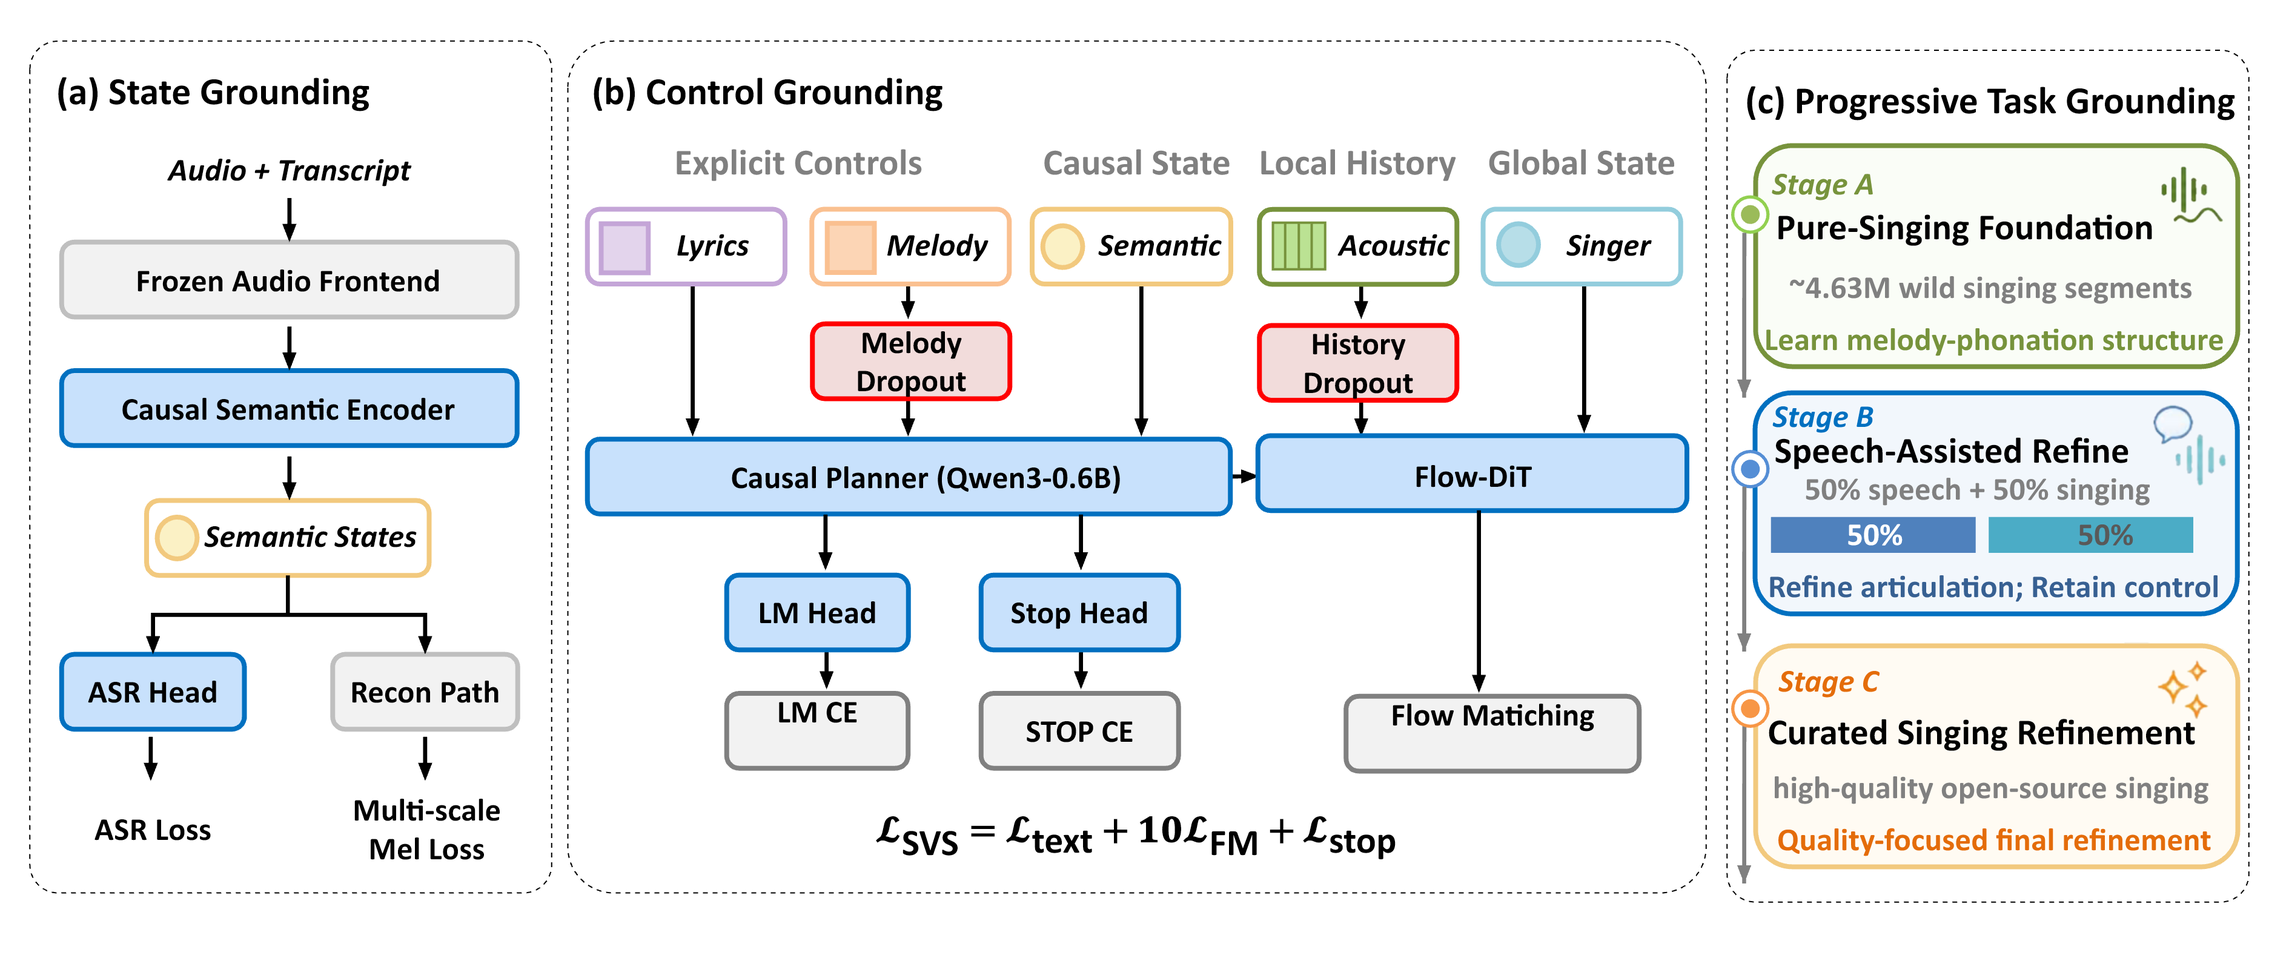
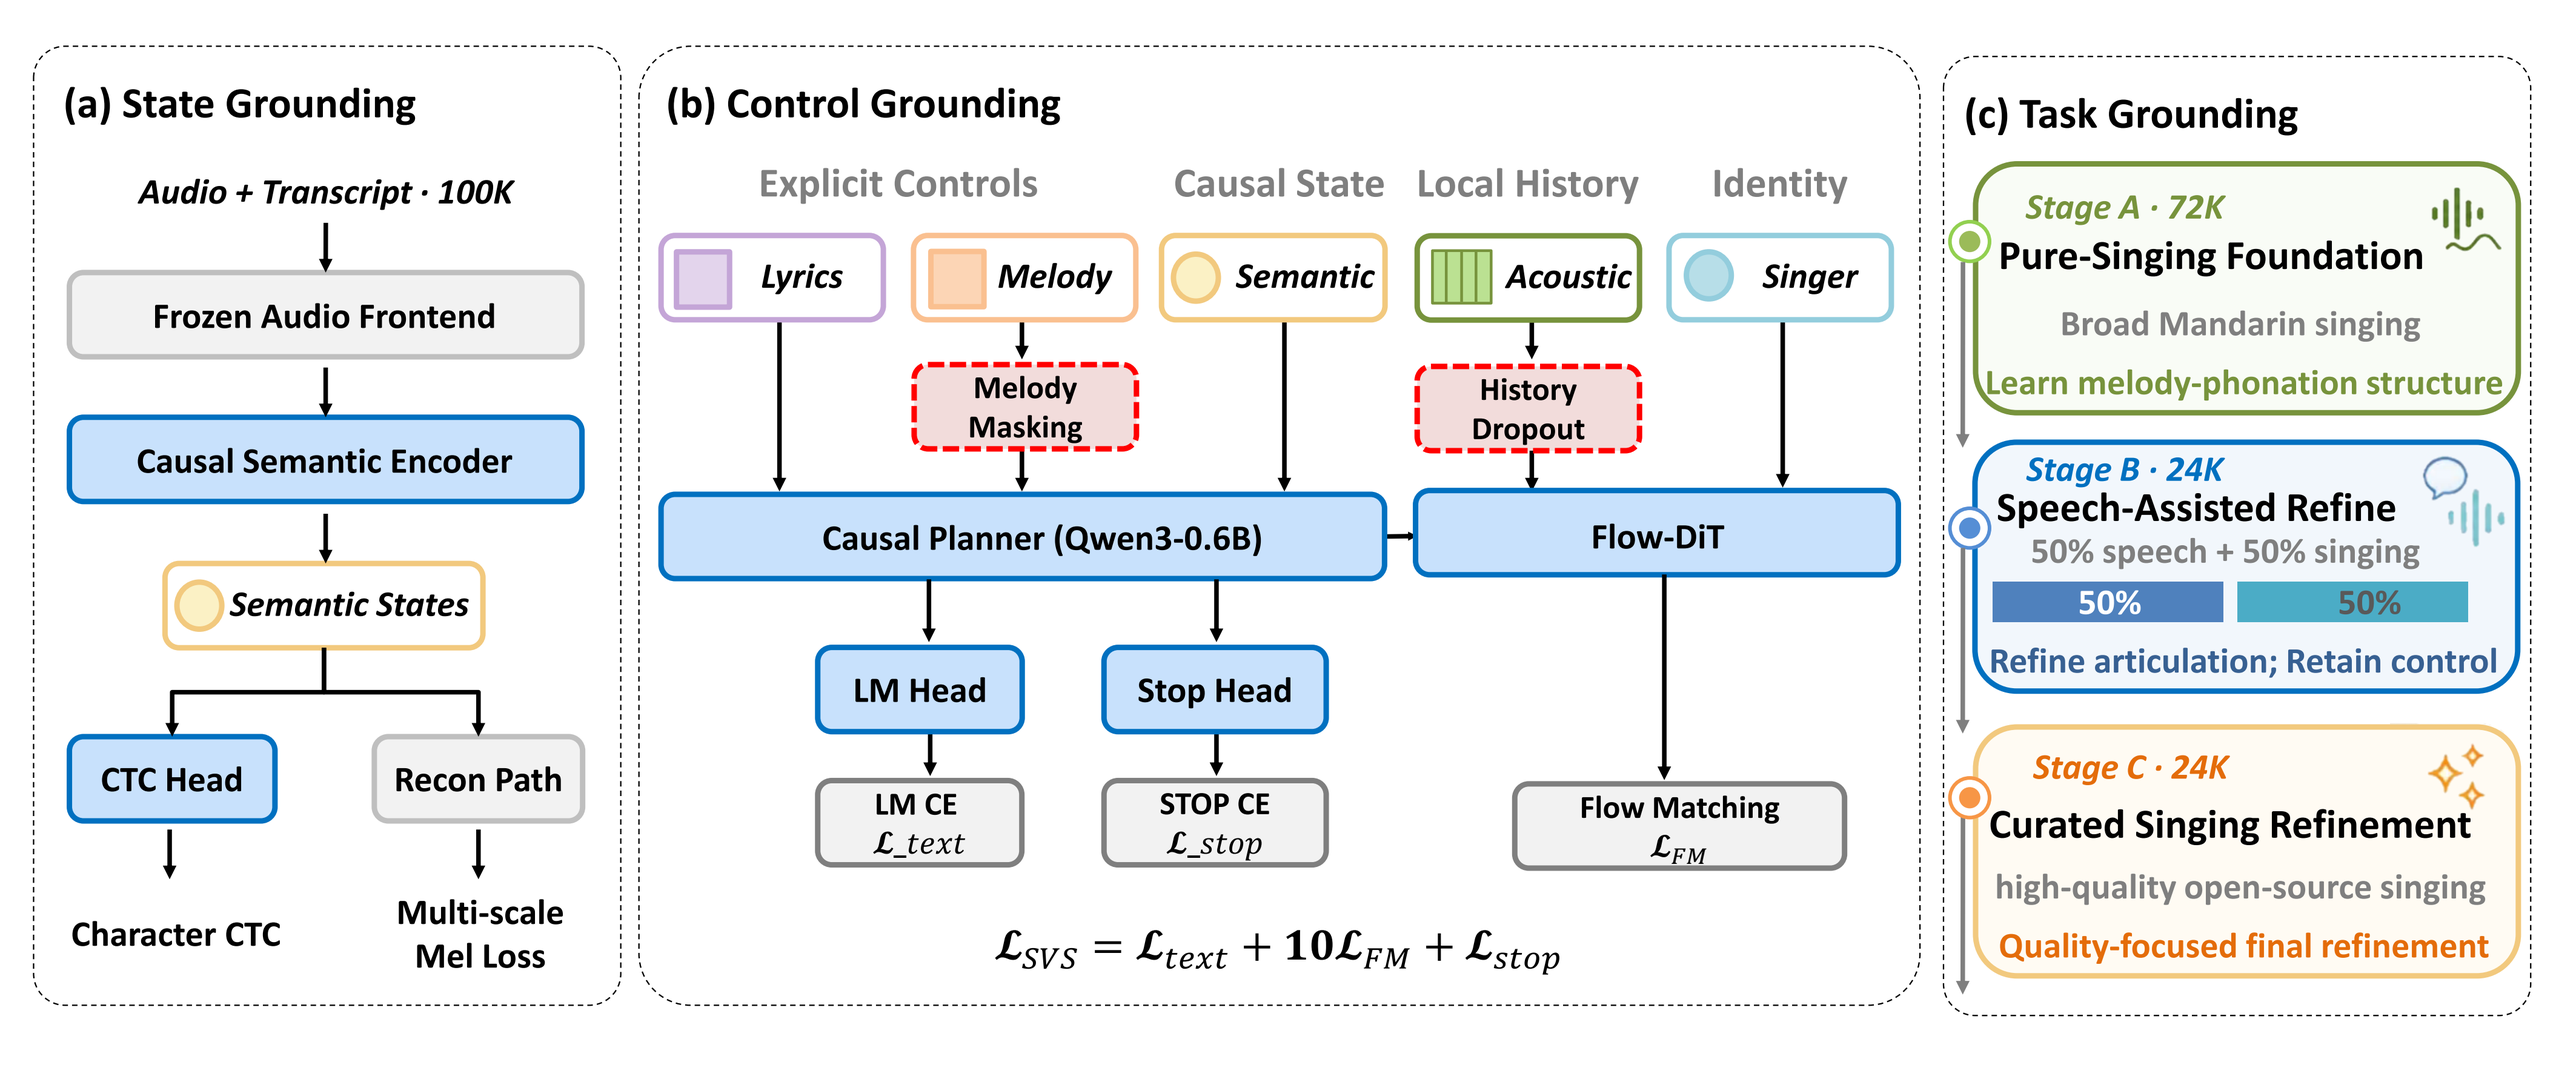
Update manuscript figures, main tables and revised listening results

diff --git a/index.html b/index.html
@@ -88,8 +88,8 @@
           <small>reference melody preservation</small>
         </div>
         <div>
-          <strong>4.13</strong><span>N-MOS ↑</span>
-          <small>naturalness, 95% CI [4.04, 4.22]</small>
+          <strong>4.11</strong><span>N-MOS ↑</span>
+          <small>naturalness · paired listening study</small>
         </div>
       </section>
 
@@ -131,6 +131,7 @@
         </div>
       </section>
 
+<section class="section"><div class="table-card"><div class="table-title"><h3>History access in related models</h3></div><div class="table-scroll"><table><thead><tr><th>Model</th><th>Global recurrent input</th><th>Local acoustic path</th><th>Role</th></tr></thead><tbody><tr><th>DiTAR</th><td>Encoded acoustic patches</td><td>Previous patches → local diffusion</td><td>Patch AR with local diffusion</td></tr><tr><th>VibeVoice</th><td>Semantic + acoustic projections</td><td>No separate predecessor input</td><td>Hybrid feedback for long-form speech</td></tr><tr><th>VoxCPM</th><td>Local-encoder acoustic embeddings</td><td>Previous patch → local diffusion</td><td>FSQ planning + residual acoustics</td></tr><tr><th>CALM</th><td>Noised acoustic history</td><td>Clean recent latents → short context</td><td>Noisy long / clean short context</td></tr><tr class="ours-row"><th>CLASVS</th><td>Frozen semantic feedback</td><td>Previous patch → Flow-DiT</td><td>Restricted global history for lyric editing</td></tr></tbody></table></div><p class="table-note">Main paper Table 1. Systems address different tasks: this compares information access, not same-task performance. CALM refers to its music configuration.</p></div></section>
       <section class="section method-section" id="method">
         <div class="section-heading split-heading">
           <div>
@@ -138,9 +139,9 @@
             <h2>State–Control–Transition routing</h2>
           </div>
           <p>
-            CLASVS generates normalized 64-D AudioVAE latents in 100-ms patches.
+            CLASVS generates 64-D AudioVAE latents in 100-ms patches.
             A Qwen3-0.6B causal planner retains the immutable controls; repeated
-            Flow-DiT blocks realize the acoustic sequence.
+            shared Flow-DiT generates five latent frames per 100-ms step.
           </p>
         </div>
 
@@ -225,8 +226,9 @@
               <span>Open figure ↗</span>
             </button>
             <figcaption>
-              Figure 2. State, control, and task grounding form a three-stage
-              curriculum for robust variable-length lyric editing.
+              Figure 2. State Grounding pretrains the causal encoder with character
+              CTC and Mel reconstruction. Control Grounding corrupts local history
+              and melody. Task Grounding uses 72K / 24K / 24K updates.
             </figcaption>
           </figure>
         </div>
@@ -245,121 +247,7 @@
           </p>
         </div>
 
-        <div class="table-card">
-          <div class="table-title">
-            <div>
-              <span>Objective evaluation</span>
-              <h3>CLA-LyricEdit-320</h3>
-            </div>
-            <small>↓ lower is better · ↑ higher is better</small>
-          </div>
-          <div class="table-scroll">
-            <table>
-              <thead>
-                <tr>
-                  <th>System</th>
-                  <th>PSub PER↓</th>
-                  <th>FSub PER↓</th>
-                  <th>Del PER↓</th>
-                  <th>Ins PER↓</th>
-                  <th>Macro-PER↓</th>
-                  <th>FPC↑</th>
-                  <th>SIM↑</th>
-                  <th>Onset ms↓</th>
-                </tr>
-              </thead>
-              <tbody>
-                <tr>
-                  <th>Vevo2</th>
-                  <td>.0617</td><td>.0563</td><td>.1033</td><td>.0581</td>
-                  <td>.0699</td><td>.7440</td><td>.892</td><td>69.58</td>
-                </tr>
-                <tr>
-                  <th>YingMusic-Singer-Plus</th>
-                  <td class="best">.0171</td><td class="best">.0245</td>
-                  <td>.0847</td><td>.0382</td><td>.0411</td><td>.9340</td>
-                  <td>.906</td><td>18.80</td>
-                </tr>
-                <tr class="ours-row">
-                  <th>CLASVS</th>
-                  <td>.0505</td><td>.0442</td><td class="best">.0260</td>
-                  <td class="best">.0298</td><td class="best">.0376</td>
-                  <td class="best">.9410</td><td class="best">.914</td>
-                  <td class="best">7.68</td>
-                </tr>
-              </tbody>
-            </table>
-          </div>
-          <p class="table-note">
-            Macro-PER 95% CI: Vevo2 [.0617, .0781],
-            YingMusic-Singer-Plus [.0356, .0469], CLASVS [.0326, .0429].
-          </p>
-        </div>
-
-        <div class="results-pair">
-          <div class="table-card listening-card">
-            <div class="table-title">
-              <div>
-                <span>Human evaluation</span>
-                <h3>20 native Mandarin listeners</h3>
-              </div>
-              <small>MOS [95% CI]</small>
-            </div>
-            <div class="table-scroll">
-              <table>
-                <thead>
-                  <tr>
-                    <th>System</th><th>N-MOS</th><th>M-MOS</th><th>L-MOS</th>
-                  </tr>
-                </thead>
-                <tbody>
-                  <tr>
-                    <th>Vevo2</th>
-                    <td>3.89 [3.78, 4.00]</td>
-                    <td>3.74 [3.63, 3.85]</td>
-                    <td>3.86 [3.75, 3.97]</td>
-                  </tr>
-                  <tr>
-                    <th>YingMusic-Singer-Plus</th>
-                    <td>3.65 [3.55, 3.74]</td>
-                    <td>4.27 [4.19, 4.35]</td>
-                    <td>4.10 [4.01, 4.19]</td>
-                  </tr>
-                  <tr class="ours-row">
-                    <th>CLASVS</th>
-                    <td class="best">4.13 [4.04, 4.22]</td>
-                    <td>4.28 [4.20, 4.36]</td>
-                    <td class="best">4.42 [4.34, 4.50]</td>
-                  </tr>
-                </tbody>
-              </table>
-            </div>
-            <p class="table-note">
-              N-MOS: naturalness · M-MOS: melody adherence · L-MOS: lyric
-              pronunciation accuracy. The CLA–Ying M-MOS difference is not
-              statistically detectable (adjusted p = .79).
-            </p>
-          </div>
-          <figure class="paper-figure">
-            <button
-              class="figure-button"
-              type="button"
-              data-lightbox="./paper_assets/clasvs_fig3_representation_fidelity.png"
-              data-alt="Common-input comparison of objective and subjective metrics"
-            >
-              <img
-                src="./paper_assets/clasvs_fig3_representation_fidelity.png"
-                alt="Common-input comparison of objective and subjective metrics"
-                loading="lazy"
-              />
-              <span>Open figure ↗</span>
-            </button>
-            <figcaption>
-              Figure 3. Common-input comparison of discrete AR, continuous NAR,
-              and CLASVS continuous AR systems.
-            </figcaption>
-          </figure>
-        </div>
+<div class="table-card"><div class="table-title"><h3>CLA-LyricEdit-320</h3></div><div class="table-scroll"><table><thead><tr><th>System</th><th>PSub PER↓</th><th>FSub PER↓</th><th>Del PER↓</th><th>Ins PER↓</th><th>Macro-PER↓ [95% CI]</th></tr></thead><tbody><tr><th>Vevo2</th><td>.0617</td><td>.0563</td><td>.1033</td><td>.0581</td><td>.0699 [.0617, .0781]</td></tr><tr><th>YingMusic+</th><td class="best">.0171</td><td class="best">.0245</td><td>.0847</td><td>.0382</td><td>.0411 [.0356, .0469]</td></tr><tr class="ours-row"><th>CLASVS</th><td>.0505</td><td>.0442</td><td class="best">.0260</td><td class="best">.0298</td><td class="best">.0376 [.0326, .0429]</td></tr></tbody></table></div><p class="table-note">320 edits from 80 songs. Macro-PER intervals are song-clustered. Bold marks best point estimates, not significance.</p></div><div class="table-card"><div class="table-title"><h3>Public LyricEditBench</h3></div><div class="table-scroll"><table><thead><tr><th>System</th><th>PSub PER↓</th><th>FSub PER↓</th><th>Del PER↓</th><th>Ins PER↓</th><th>Macro-PER↓</th></tr></thead><tbody><tr><th>Vevo2</th><td>.0664</td><td>.0607</td><td>.1123</td><td>.0649</td><td>.0761</td></tr><tr><th>YingMusic+</th><td class="best">.0214</td><td class="best">.0186</td><td>.0946</td><td>.0426</td><td>.0443</td></tr><tr class="ours-row"><th>CLASVS</th><td>.0508</td><td>.0435</td><td class="best">.0398</td><td class="best">.0357</td><td class="best">.0425</td></tr></tbody></table></div><p class="table-note">Frozen four-operation Mandarin split.</p></div><div class="table-card"><div class="table-title"><h3>Performance preservation</h3></div><div class="table-scroll"><table><thead><tr><th>System</th><th>FPC↑</th><th>SIM↑</th><th>RefDur (%)↓</th><th>Onset (ms)↓</th></tr></thead><tbody><tr><th>Vevo2</th><td>.7440</td><td>.892</td><td>1.6009</td><td>69.58</td></tr><tr><th>YingMusic+</th><td>.9340</td><td>.906</td><td class="best">.1464</td><td>18.80</td></tr><tr class="ours-row"><th>CLASVS</th><td class="best">.9410</td><td class="best">.914</td><td>.9923</td><td class="best">7.68</td></tr></tbody></table></div><p class="table-note">Primary benchmark. YingMusic+ has lower global duration deviation.</p></div><div class="table-card"><div class="table-title"><h3>Perceptual quality</h3></div><div class="table-scroll"><table><thead><tr><th>System</th><th>N-MOS↑</th><th>M-MOS↑</th><th>L-MOS↑</th></tr></thead><tbody><tr><th>Vevo2</th><td>3.89</td><td>3.74</td><td>3.86</td></tr><tr><th>YingMusic+</th><td>3.65</td><td>4.27</td><td>4.10</td></tr><tr class="ours-row"><th>CLASVS</th><td class="best">4.11</td><td class="best">4.28</td><td class="best">4.40</td></tr></tbody></table></div><p class="table-note">80 paired base edits, 240 audios, 20 Mandarin listeners, eight ratings per audio. N: naturalness; M: melody adherence; L: lyric intelligibility. Individual-system intervals are not reported in the revised paper.</p></div><div class="table-card"><div class="table-title"><h3>Paired contrasts: CLASVS − YingMusic+</h3></div><div class="table-scroll"><table><thead><tr><th>Metric</th><th>Difference [95% CI]</th><th>Holm p</th></tr></thead><tbody><tr><th>N-MOS</th><td>+.46 [+.24, +.68]</td><td>.000083</td></tr><tr><th>M-MOS</th><td>+.01 (point estimate only)</td><td>—</td></tr><tr><th>L-MOS</th><td>+.30 [+.08, +.52]</td><td>.0075</td></tr></tbody></table></div><p class="table-note">The .01 M-MOS difference is descriptive and does not establish equivalence. CLASVS improves deletion and insertion; YingMusic+ remains stronger on substitution.</p></div><figure class="paper-figure"><button class="figure-button" type="button" data-lightbox="./paper_assets/clasvs_fig3_comparison.png" data-alt="Operation-resolved PER and paired perceptual contrasts"><img src="./paper_assets/clasvs_fig3_comparison.png" alt="Operation-resolved PER and paired perceptual contrasts" loading="lazy"/><span>Open figure ↗</span></button><figcaption>Figure 3. Operation-resolved PER on the primary benchmark and paired CLASVS–YingMusic+ naturalness and lyric-intelligibility differences with 95% intervals. Operation bars are point estimates.</figcaption></figure><p class="table-note">Quality configuration: 24 Euler steps, CFG 2.0; single H200, batch one. Warm end-to-end RTF 1.45, incremental peak memory 5.8 GiB, total resident peak 9 GiB. This configuration is slower than real time.</p>
       </section>
 
       <section class="section real-world-section" id="real-world">
@@ -959,42 +847,7 @@
         </div>
       </section>
 
-      <section class="section diagnostics-section">
-        <details>
-          <summary>
-            <span>05 / Analysis</span>
-            <strong>Open SCT mechanism and rollout diagnostics</strong>
-            <i>+</i>
-          </summary>
-          <div>
-            <figure class="paper-figure">
-              <button
-                class="figure-button"
-                type="button"
-                data-lightbox="./paper_assets/clasvs_fig4_mechanism_rollout.png"
-                data-alt="SCT mechanism and rollout diagnostics"
-              >
-                <img
-                  src="./paper_assets/clasvs_fig4_mechanism_rollout.png"
-                  alt="SCT mechanism and rollout diagnostics"
-                  loading="lazy"
-                />
-                <span>Open figure ↗</span>
-              </button>
-              <figcaption>
-                Figure 4. Paired route interventions, a frozen progress probe, and
-                failure rates by output-length quartile.
-              </figcaption>
-            </figure>
-            <p>
-              Semantic-state shuffling reduces target-text preference; raw-patch
-              shuffling harms melody continuity more. The frozen progress probe
-              recovers phonetic progress more accurately from semantic state than
-              from the raw acoustic predecessor.
-            </p>
-          </div>
-        </details>
-      </section>
+<section class="section" id="analysis"><div class="section-heading"><p class="section-index">05 / Controlled analysis</p><h2>History routing and training controls</h2><p>Main paper Table 3: locked continuous-AR protocol.</p></div><div class="table-card"><div class="table-title"><h3>A. History access</h3></div><div class="table-scroll"><table><thead><tr><th>Configuration</th><th>Change from Full</th><th>PER↓</th><th>FPC↑</th><th>SrcRev↓</th></tr></thead><tbody><tr class="ours-row"><th>Full SCT + PSCG</th><td>Reference configuration</td><td class="best">.0376</td><td class="best">.9410</td><td class="best">.081</td></tr><tr><th>Unified</th><td>Add acoustics to planner</td><td>.0450</td><td>.9300</td><td>.120</td></tr><tr><th>No semantic feedback</th><td>Remove semantic route</td><td>.0564</td><td>.9205</td><td>.154</td></tr><tr><th>No local acoustic patch</th><td>Remove local predecessor</td><td>.0492</td><td>.8896</td><td>.086</td></tr></tbody></table></div><p class="table-note">Unified adds 328,704 parameters while preserving one planner token and the local predecessor.</p></div><div class="table-card"><div class="table-title"><h3>B. Training budget</h3></div><div class="table-scroll"><table><thead><tr><th>Configuration</th><th>Updates</th><th>Trainable</th><th>Total budget</th><th>PER↓</th></tr></thead><tbody><tr><th>Random-joint</th><td>120K</td><td>1.395B</td><td>1.20</td><td>.0511</td></tr><tr><th>Random-joint</th><td>130K</td><td>1.395B</td><td>1.30</td><td>.0477</td></tr><tr><th>Random-joint</th><td>140K</td><td>1.395B</td><td>1.40</td><td>.0444</td></tr><tr class="ours-row"><th>Full SCT + PSCG</th><td>120K</td><td>.765B</td><td>1.40</td><td class="best">.0376</td></tr></tbody></table></div><p class="table-note">Normalized compute includes State pretraining; it is not equal wall-clock time.</p></div><div class="table-card"><div class="table-title"><h3>C. Training controls</h3></div><div class="table-scroll"><table><thead><tr><th>Configuration</th><th>Change from Full</th><th>PER↓</th><th>SrcRev↓</th></tr></thead><tbody><tr><th>No history dropout</th><td>Set local pₕ = 0 only</td><td>.0440</td><td>.130</td></tr><tr><th>No Control Grounding</th><td>Remove both corruptions</td><td>.0468</td><td>.121</td></tr><tr><th>No Task Grounding</th><td>Shuffle the same exposures</td><td>.0439</td><td>.102</td></tr></tbody></table></div><p class="table-note">120K downstream updates. No-history-dropout averages seeds 0/1/2. Unreported uncertainty and FPC are not imputed.</p></div><figure class="paper-figure"><button class="figure-button" type="button" data-lightbox="./paper_assets/clasvs_fig4_information_profile.png" data-alt="Accessible information in semantic and acoustic history"><img src="./paper_assets/clasvs_fig4_information_profile.png" alt="Accessible information in semantic and acoustic history" loading="lazy"/><span>Open figure ↗</span></button><figcaption>Figure 4. Linear probes of target-position progress, singer identity, and frame-level log-F0. Orange bars are external normalized-time and chance baselines. Values are point estimates.</figcaption></figure><p>Semantic/acoustic progress MAE: .082/.191 (time baseline .120); singer accuracy: 8.6%/91.2% (chance 2.5%); log-F0 R²: .09/.84. These results support different information profiles without proving disentanglement or causal use.</p><p>Semantic-history shuffling reduces lyric margin .3685 → .2469; predecessor shuffling reduces melody margin .200 → .170. Missing cross-route effects and intervals prevent a double-dissociation claim.</p></section>
 
       <section class="release-note" aria-label="Research-use notice">
         <div>
